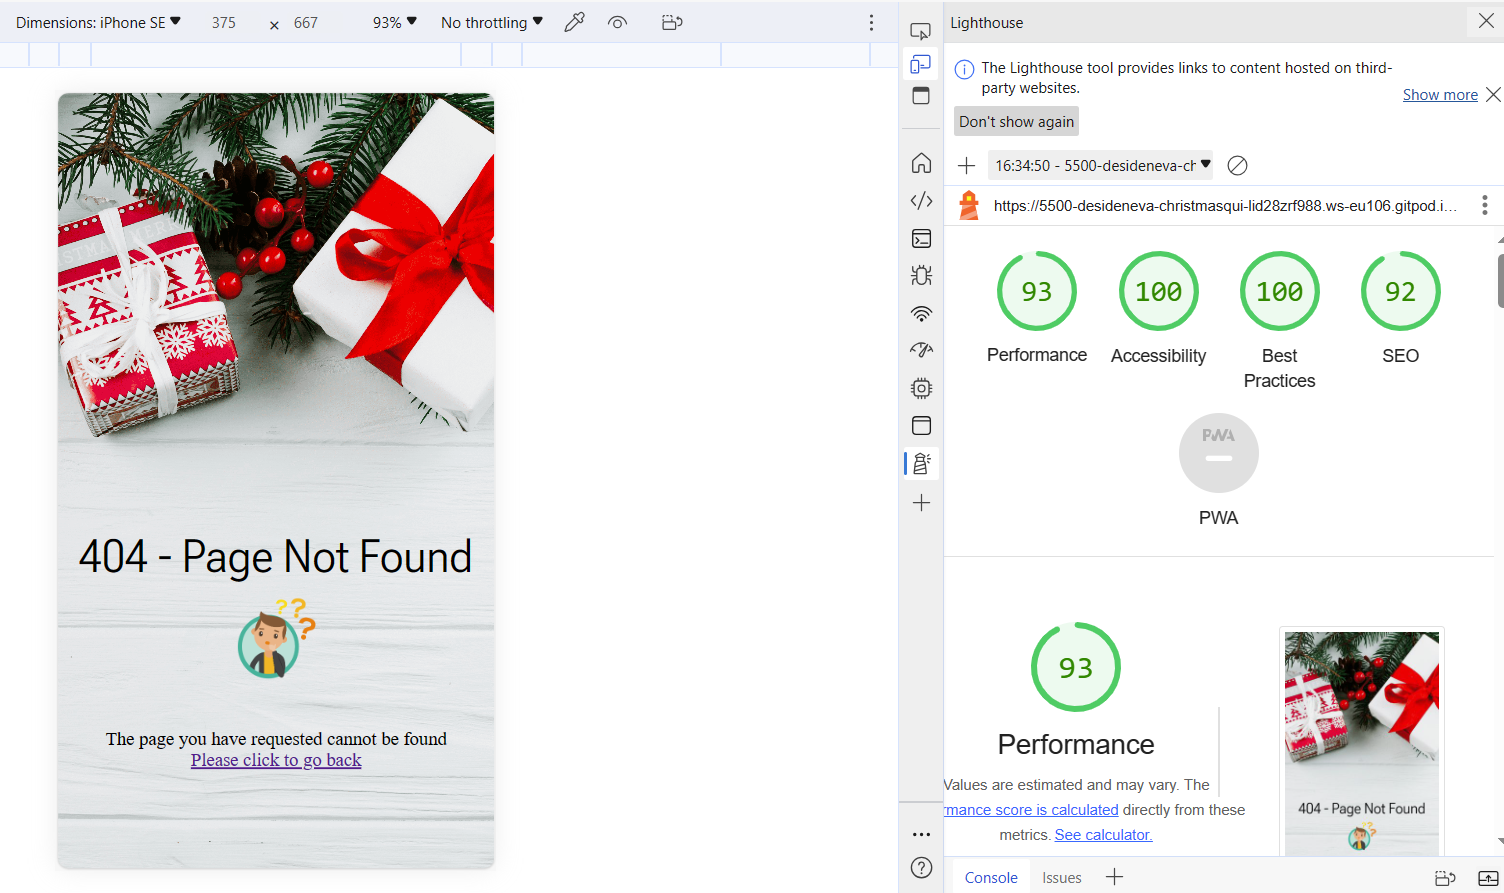
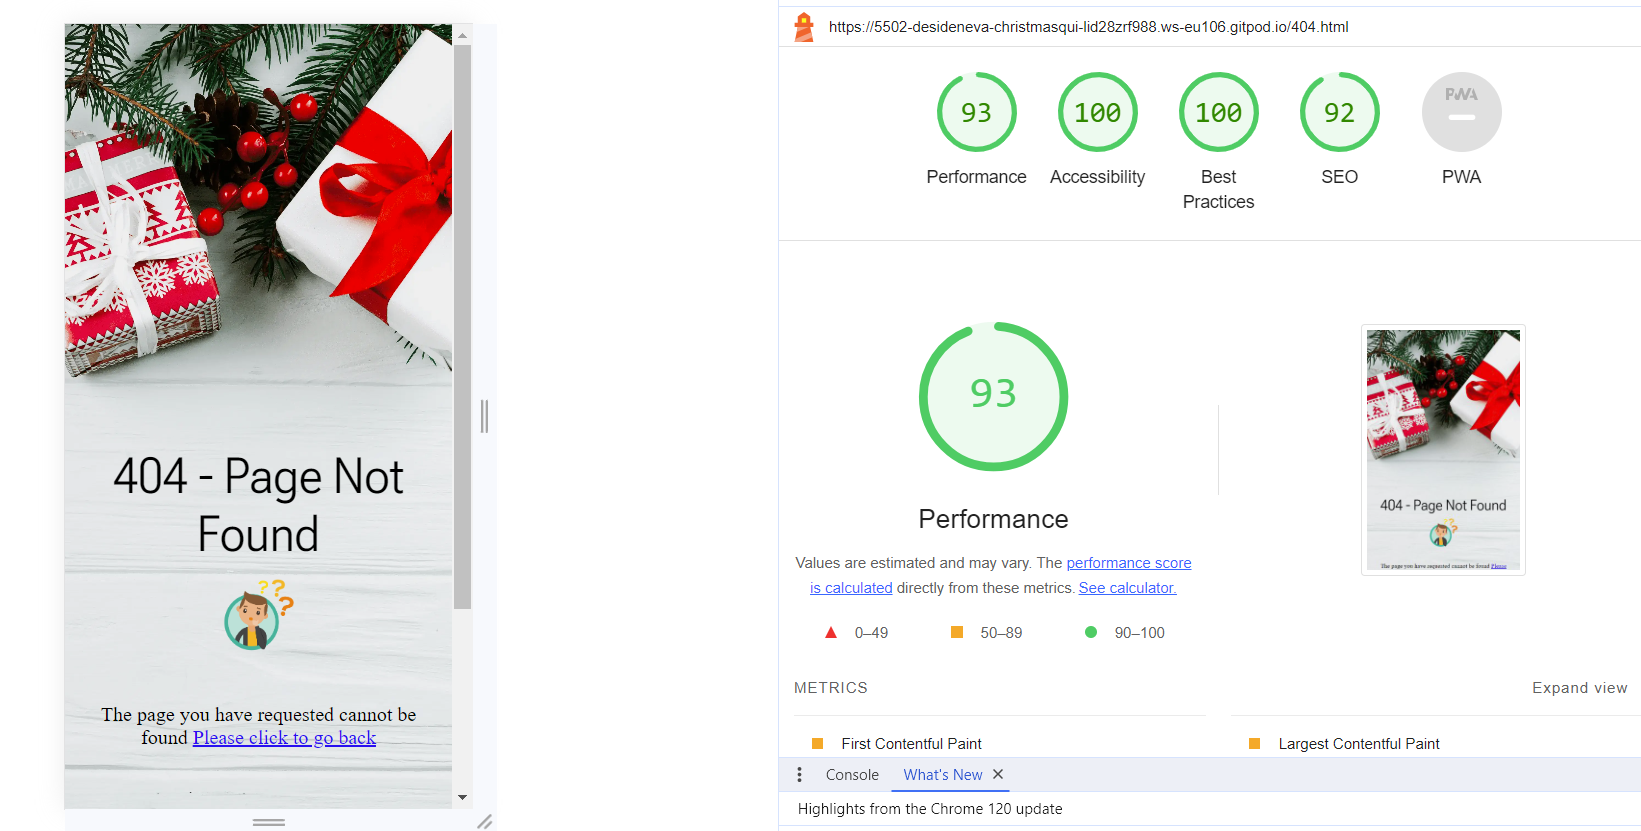
Add images and update README

diff --git a/assets/css/style.css b/assets/css/style.css
@@ -4,7 +4,7 @@
 
  /* Styling the front page */
  body {
-     background-image: url(../assets/docs/front-page-desktop.PNG);
+     background-image: url(../images/christmas-twig-with-candle-present-boxes-1.webp);
      margin: 0;
      padding: 100px 0;
      height: 100vh;

diff --git a/README.md b/README.md
@@ -93,9 +93,17 @@ No matter where you are on your Christmas journey, the website aims to make your
 
 ### The Rules Button
 
-* The rules button is like a guidebook. When you hover over it, it changes the background shade. Clicking it reveals a pop-up that explains what you need to know before diving into the Christmas quiz. It's like a friendly heads-up before you begin.
+* The rules button is like a guidebook. When you hover over it, it changes the background shade. 
 
-![Rules Button](assets/docs/rules-popup.PNG)
+![Rules Button](assets/docs/rules-btn-hovereffect.png)
+
+* Clicking it reveals a pop-up that explains what you need to know before diving into the Christmas quiz. It's like a friendly heads-up before you begin.
+
+![Popup rules](assets/docs/rules-popup.PNG)
+
+* The popup box becomes scrollable if the rules don't fit on the screen.
+
+![Scroll effect](assets/docs/rules-scroll-effect.PNG)
 
 ### The Quiz Questions
 
